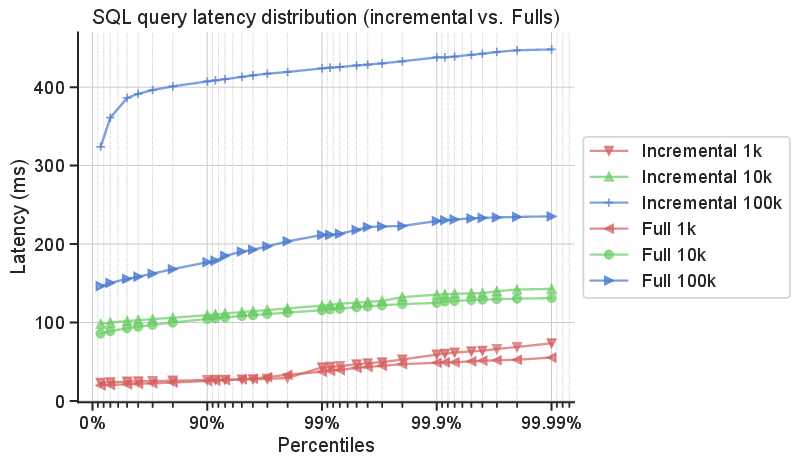
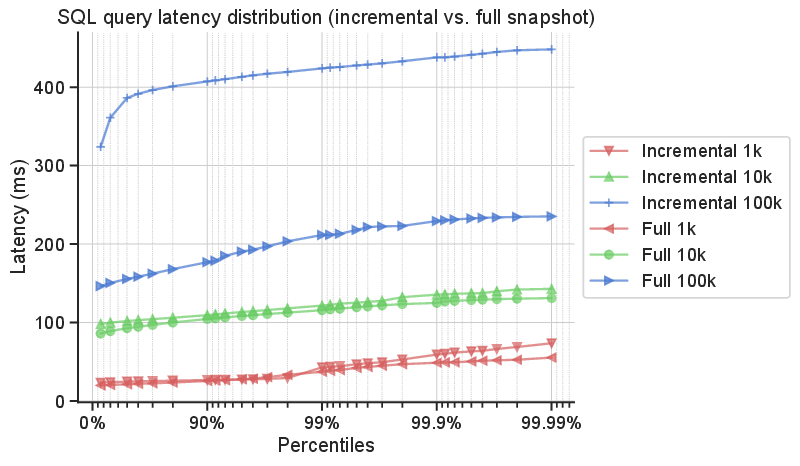
Fix sql query figure title and README
Some old configs in the readme are not in this repo so removed those.

Changed region(s): [[0.0625, 0.0, 0.75, 0.0601]]

diff --git a/S-Query-evaluation/src/configs/sl_incremental_query_time.py b/S-Query-evaluation/src/configs/sl_incremental_query_time.py
@@ -21,7 +21,7 @@ from .data.query_time import (
 String: title
 The title of the plot
 """
-title = 'SQL query latency distribution (incremental vs. Fulls)'
+title = 'SQL query latency distribution (incremental vs. full snapshot)'
 
 """
 String: x_axis_label

diff --git a/S-Query-evaluation/README.md b/S-Query-evaluation/README.md
@@ -70,13 +70,7 @@ There are different types of raw result files:
   - `plot_experiments.py`
     Helper scripts that plots all configs at once
   - ### configs
-    This folder houses the different plot configurations and data
-    - `plot_config.py`
-      Example configuration file
-    - `ut_live_phase.py`
-      Config for user tracking job. Live and phase state enabled latencies
-    - `ut_live_snapshot_phase.py`
-      Config for user tracking job. Live, snapshot and phase state enabled latencies
+    This folder houses the different plot configurations and data.
     - ### data
       Folder used for housing the python latency lists
       - `incremental_query.py`
